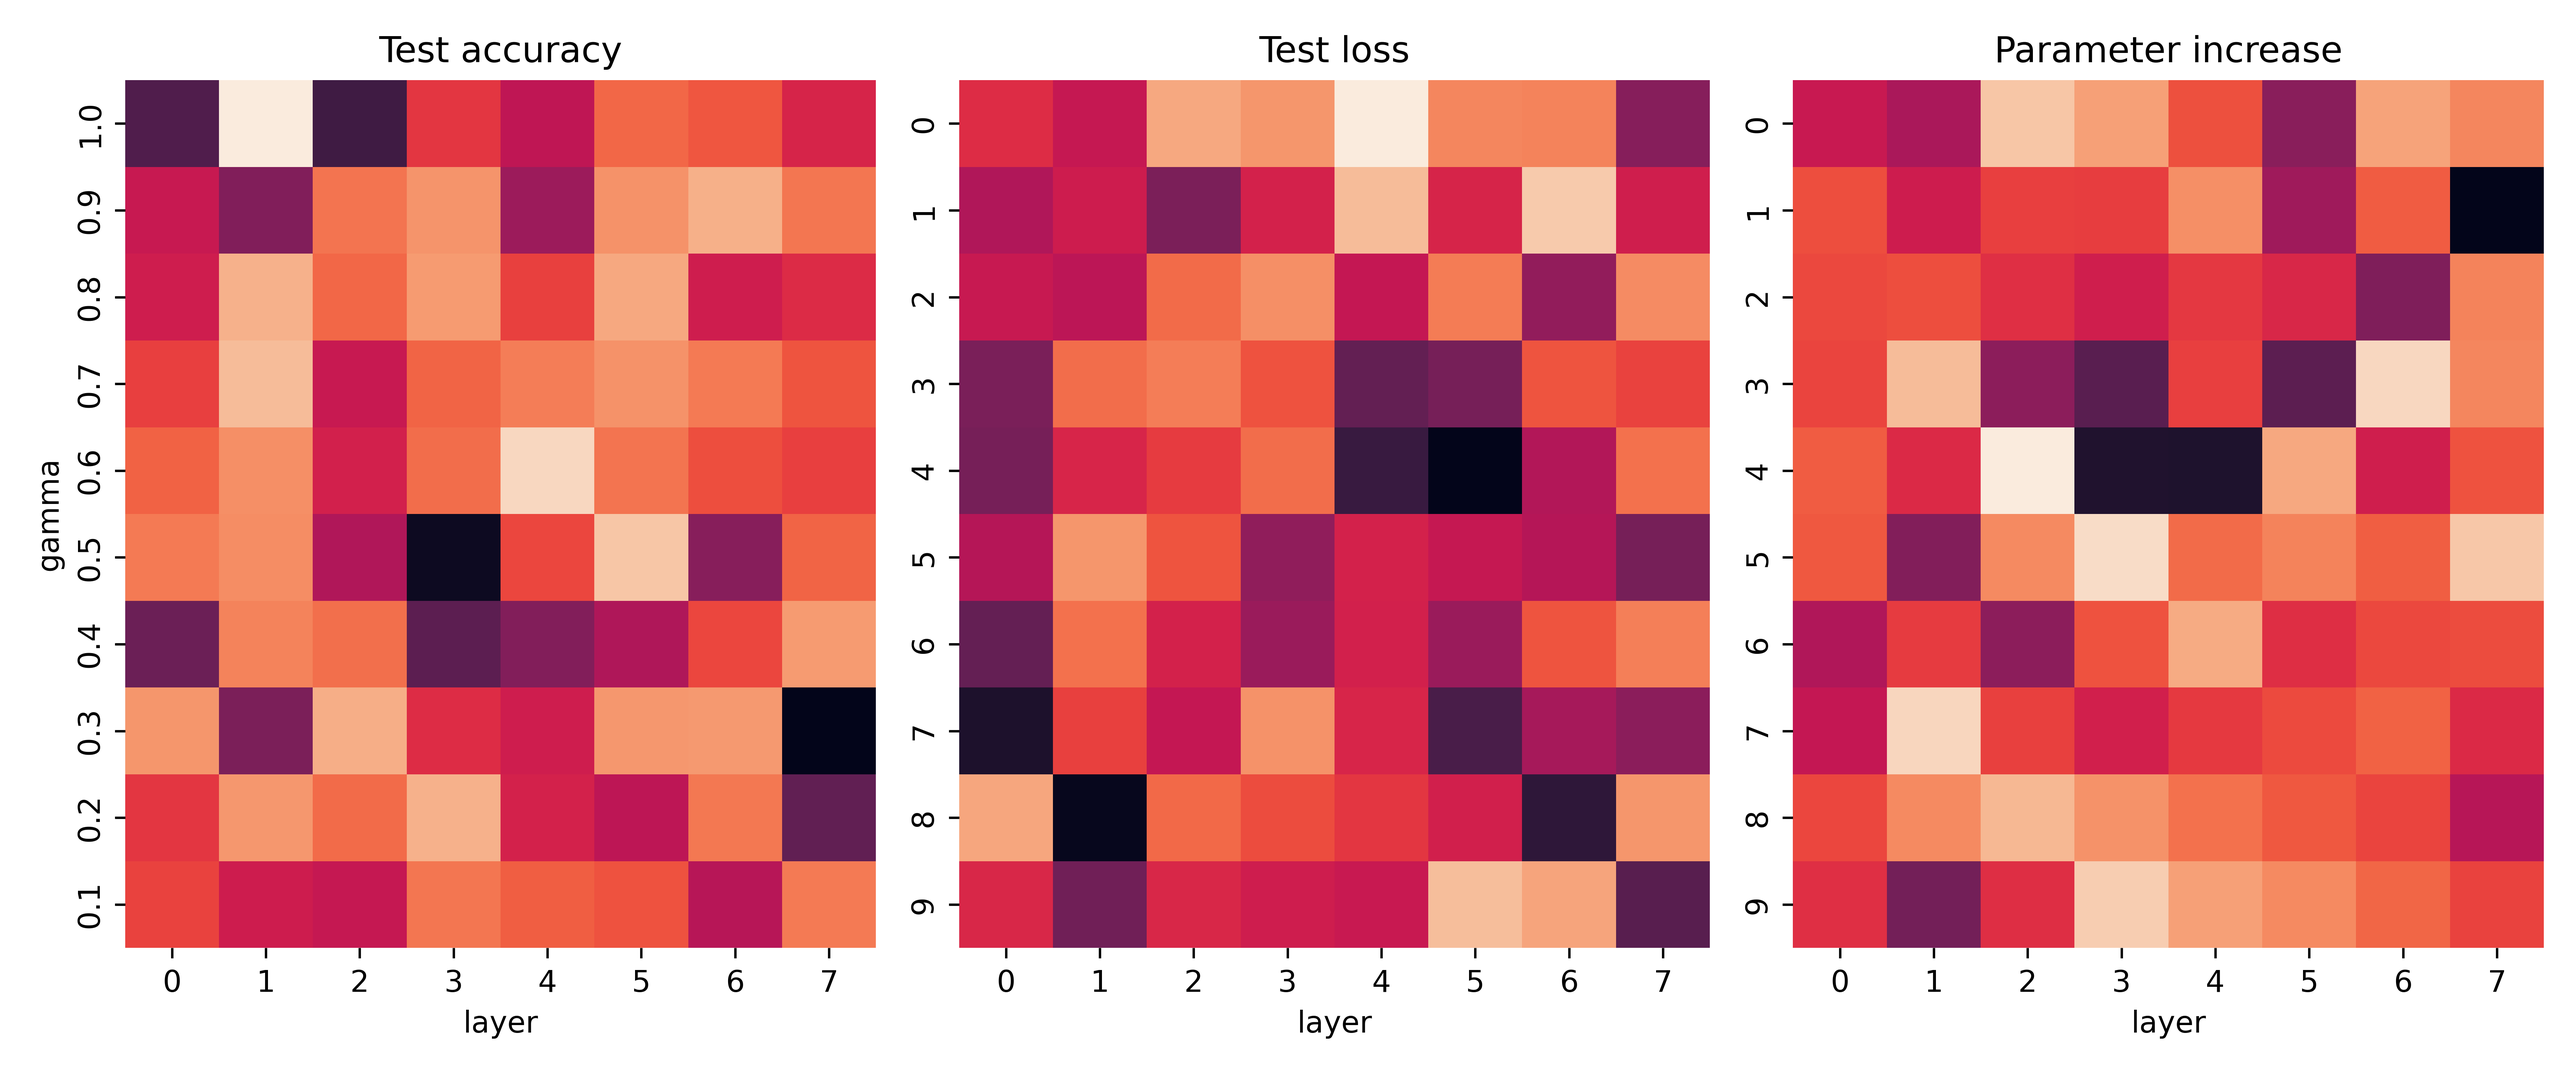
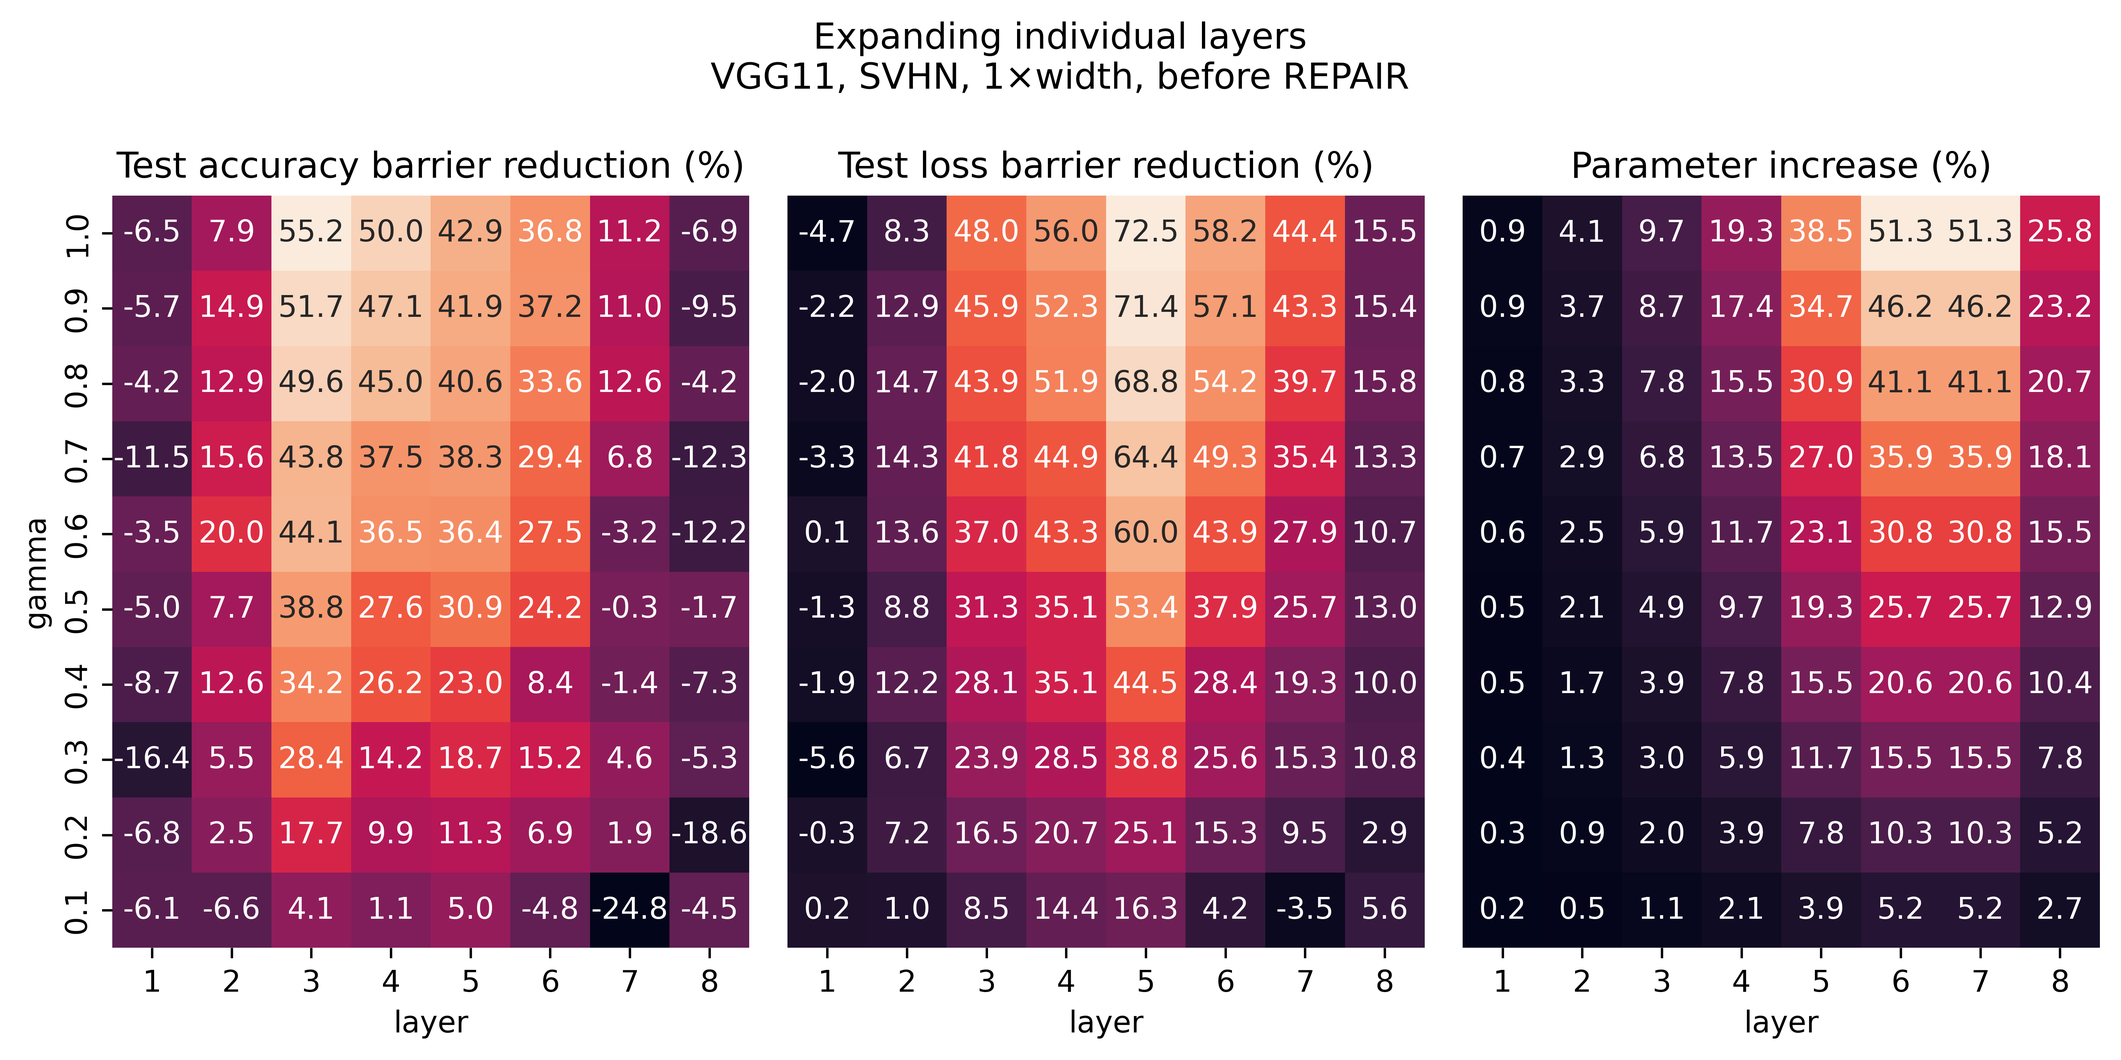
add experiment_k

diff --git a/src/evaluate.py b/src/evaluate.py
@@ -528,7 +528,7 @@ def experiment_b_ResNet18(model_name_a: str, model_name_b: str = None, threshold
 
         all_expansions = [1.1, 1.2, 1.3, 1.4, 1.5, 1.6, 1.7, 1.8, 1.9, 2.0]
 
-        metrics["default_num_params"] = torch.zeros(len(all_expansions), num_layers) * default_num_params
+        metrics["default_num_params"] = torch.ones(len(all_expansions), num_layers) * default_num_params
 
         metrics["only_expand_layer_i_train_accs"] = torch.zeros(len(all_expansions), num_layers)
         metrics["only_expand_layer_i_train_losses"] = torch.zeros(len(all_expansions), num_layers)
@@ -955,3 +955,135 @@ def experiment_r(model_name_a: str, model_name_b: str = None, interpolation_step
             metrics = load_file(filepath)  # necessary because of a safetensors bug
 
     return metrics
+
+
+def experiment_k(model_name_a: str, model_name_b: str = None, interpolation_steps=21):
+    """
+    Ensembles parts of the model on an order determined by experiment b
+    """
+    if model_name_b is None:
+        model_name_b = f"{model_name_a}-b"
+        model_name_a = f"{model_name_a}-a"
+
+    dataset_a, model_type_a, size_a, batch_norm_a, width_a, variant_a = parse_model_name(model_name_a)
+    dataset_b, model_type_b, size_b, batch_norm_b, width_b, variant_b = parse_model_name(model_name_b)
+
+    assert model_type_a == model_type_b
+    assert size_a == size_b
+    assert batch_norm_a == batch_norm_b
+    assert width_a == width_b  # not strictly necessary, but always the case in our experiments
+
+    evaluations_dir = get_evaluations_dir(subdir="smart_order")
+    filepath = os.path.join(evaluations_dir, f"smart_order-{model_name_a}{variant_b}.safetensors")
+
+    if os.path.exists(filepath):
+        metrics = load_file(filepath)
+        print(f"📤 Loaded saved metrics for {model_name_a}{variant_b} from .safetensors")
+    else:
+        metrics = {"alphas": torch.linspace(0.0, 1.0, interpolation_steps)}
+
+    train_aug_loader, train_noaug_loader, test_loader = get_loaders(dataset_a)
+
+    order = get_order(dataset_a, model_type_a, size_a, width_a, f"{variant_a}{variant_b}")
+
+    indices = {
+        0: [1],
+        1: [3],
+        2: [5],
+        3: [7],
+        4: [9],
+        5: [11],
+        6: [13],
+        7: [15],
+        8: [0, 2, 4],
+        9: [6, 8],
+        10: [10, 12],
+        11: [14, 16],
+    }
+
+    model_a = load_model(model_name_a).cuda()
+    num_params_default = get_num_params(model_a)
+    width_expansion = torch.ones(model_a.num_layers)
+    for k, idxs in enumerate(order):
+        if f"smart_order_merging_REPAIR_{k:g}_test_accs" not in metrics.keys():
+            print(f"Collecting smart_order metrics ({k:g}) ...")
+            model_a = load_model(model_name_a).cuda()
+            model_b = load_model(model_name_b).cuda()
+
+            if model_type_a == "ResNet":
+                idxs = indices[idxs]
+            else:
+                idxs = [idxs]
+
+            for idx in idxs:
+                width_expansion[idx] = 2
+
+            model_a = expand_model(model_a, width_expansion).cuda()
+            model_b = expand_model(model_b, width_expansion).cuda()
+            model_b_perm = permute_model(reference_model=model_a, model=model_b, loader=train_aug_loader)
+            (
+                metrics[f"smart_order_merging_{k:g}_train_accs"],
+                metrics[f"smart_order_merging_{k:g}_train_losses"],
+            ) = evaluate_two_models_merging(model_a, model_b_perm, train_noaug_loader, interpolation_steps)
+            (
+                metrics[f"smart_order_merging_{k:g}_test_accs"],
+                metrics[f"smart_order_merging_{k:g}_test_losses"],
+            ) = evaluate_two_models_merging(model_a, model_b_perm, test_loader, interpolation_steps)
+            print(f"Midpoint test acc: {metrics[f'smart_order_merging_{k:g}_test_accs'][10]}")
+
+            print(f"Collecting smart_order merging + REPAIR metrics ({k:g}) ...")
+            (
+                metrics[f"smart_order_merging_REPAIR_{k:g}_train_accs"],
+                metrics[f"smart_order_merging_REPAIR_{k:g}_train_losses"],
+            ) = evaluate_two_models_merging_REPAIR(
+                model_a, model_b_perm, train_noaug_loader, train_aug_loader, interpolation_steps
+            )
+            (
+                metrics[f"smart_order_merging_REPAIR_{k:g}_test_accs"],
+                metrics[f"smart_order_merging_REPAIR_{k:g}_test_losses"],
+            ) = evaluate_two_models_merging_REPAIR(
+                model_a, model_b_perm, test_loader, train_aug_loader, interpolation_steps
+            )
+            print(f"Midpoint test acc: {metrics[f'smart_order_merging_REPAIR_{k:g}_test_accs'][10]}")
+
+            num_params = get_num_params(interpolate_models(model_a, model_b_perm), ignore_zeros=True)
+            metrics[f"smart_order_merging_{k:g}_param_increase"] = torch.Tensor([num_params / num_params_default])
+
+            save_evaluation_checkpoint(metrics, filepath)
+            metrics = load_file(filepath)  # necessary because of a safetensors bug
+
+    return metrics
+
+
+def get_order(dataset, architecture, size, width, variants):
+    """
+    Fetches the order of expansion based on experiment b results
+    """
+
+    metrics = load_file(
+        os.path.join(
+            get_evaluations_dir("experiment_b"),
+            f"/experiment-b-{dataset}-{architecture}{size}-bn-{width}x-{variants}.safetensors",
+        )
+    )
+    metrics_default = load_file(
+        os.path.join(get_evaluations_dir("two_models"), f"{dataset}-{architecture}{size}-bn-{width}x-ab.safetensors")
+    )
+
+    accs = torch.flip(metrics[f"only_expand_layer_i{'_REPAIR' if repair else ''}_test_accs"], dims=[0])[:, :12]
+    # losses = torch.flip(metrics[f"only_expand_layer_i{'_REPAIR' if repair else ''}_test_losses"], dims=[0])[:, :12]
+    params = (torch.flip(metrics["only_expand_layer_i_num_params"], dims=[0]) / metrics["default_num_params"])[
+        :, :12
+    ] - 1
+
+    acc_endpoints = metrics_default["ensembling_test_accs"][[0, -1]].mean()
+    acc_merging = metrics_default[f"merging{'_REPAIR' if repair else ''}_test_accs"][10]
+    acc_barrier_reduction = (accs - acc_merging) / (acc_endpoints - acc_merging)
+
+    # loss_endpoints = metrics_default["ensembling_test_losses"][[0, -1]].mean()
+    # loss_merging = metrics_default[f"merging{'_REPAIR' if repair else ''}_test_losses"][10]
+    # loss_barrier_reduction = (losses - loss_merging) / (loss_endpoints - loss_merging)
+
+    benefits = (acc_barrier_reduction / params)[0]
+    _, order = torch.sort(benefits, descending=True)
+    return order

diff --git a/src/plot_scripts/plot_single_layer_heatmap.py b/src/plot_scripts/plot_single_layer_heatmap.py
@@ -2,6 +2,8 @@ import matplotlib.pyplot as plt
 import seaborn as sns
 import torch
 from pathlib import Path
+from safetensors.torch import load_file
+import matplotlib.transforms as transforms
 
 # from src.utils import get_plots_dir
 import os
@@ -9,30 +11,48 @@ import os
 
 dataset = "SVHN"
 architecture = "VGG"
-size = 11
+size = 11 if architecture == "VGG" else 18
 bn = True
 width = 1
+repair = False
 
-metrics = ["acc", "loss"]
+metrics = load_file(
+    f"/home/korbinian/Documents/partial-model-merging/evaluations/experiment_b/experiment-b-{dataset}-{architecture}{size}-bn-{width}x-ab.safetensors"
+)
+metrics_default = load_file(
+    f"/home/korbinian/Documents/partial-model-merging/evaluations/two_models/{dataset}-{architecture}{size}-bn-{width}x-ab.safetensors"
+)
 
+accs = torch.flip(metrics[f"only_expand_layer_i{'_REPAIR' if repair else ''}_test_accs"], dims=[0])[:, :12]
+losses = torch.flip(metrics[f"only_expand_layer_i{'_REPAIR' if repair else ''}_test_losses"], dims=[0])[:, :12]
+params = (torch.flip(metrics["only_expand_layer_i_num_params"], dims=[0]) / metrics["default_num_params"])[:, :12] - 1
 
-tensor1 = torch.randn(10, 8) * 10
-tensor2 = torch.randn(10, 8) * 50
-tensor3 = torch.randn(10, 8) * 100
+acc_endpoints = metrics_default["ensembling_test_accs"][[0, -1]].mean()
+acc_merging = metrics_default[f"merging{'_REPAIR' if repair else ''}_test_accs"][10]
+acc_barrier_reduction = (accs - acc_merging) / (acc_endpoints - acc_merging)
+
+loss_endpoints = metrics_default["ensembling_test_losses"][[0, -1]].mean()
+loss_merging = metrics_default[f"merging{'_REPAIR' if repair else ''}_test_losses"][10]
+loss_barrier_reduction = (losses - loss_merging) / (loss_endpoints - loss_merging)
 
 # Creating subplots
-fig, axes = plt.subplots(1, 3, figsize=(12, 5))
+if architecture == "ResNet":
+    fig, axes = plt.subplots(1, 3, figsize=(13.2, 5.3))
+else:
+    fig, axes = plt.subplots(1, 3, figsize=(10, 5))
 
-plt.title(f"Expanding individual layers\n{architecture}{size}, {dataset}, {width}×width")
+plt.suptitle(
+    f"Expanding individual layers\n{architecture}{size}, {dataset}, {width}×width, {'after' if repair else 'before'} REPAIR"
+)
 
-axes[0].set_title("Test accuracy")
-axes[1].set_title("Test loss")
-axes[2].set_title("Parameter increase")
+axes[0].set_title("Test accuracy barrier reduction (%)")
+axes[1].set_title("Test loss barrier reduction (%)")
+axes[2].set_title("Parameter increase (%)")
 
 # Plotting the heatmaps
-sns.heatmap(tensor1, ax=axes[0], cbar=False)
-sns.heatmap(tensor2, ax=axes[1], cbar=False)
-sns.heatmap(tensor3, ax=axes[2], cbar=False)
+sns.heatmap(acc_barrier_reduction * 100, ax=axes[0], cbar=False, annot=True, fmt=".1f")
+sns.heatmap(loss_barrier_reduction * 100, ax=axes[1], cbar=False, annot=True, fmt=".1f")
+sns.heatmap(params * 100, ax=axes[2], cbar=False, annot=True, fmt=".1f")
 
 # Setting up the axes
 # Show y-axis only on the left subplot
@@ -40,10 +60,18 @@ axes[0].set_ylabel("gamma")
 axes[0].set_yticklabels(reversed([f"{x:.1f}" for x in torch.linspace(0.1, 1, 10)]))
 for ax in axes[1:]:
     ax.set_ylabel("")
+    ax.set_yticks([])
+    ax.set_yticklabels([])
 
 # Show x-axis on all subplots
 for ax in axes:
     ax.set_xlabel("layer")
+    if architecture == "VGG":
+        ax.set_xticklabels(range(1, len(accs[0]) + 1))
+        plt.subplots_adjust(wspace=0.1)
+    else:
+        ax.set_xticklabels(list(range(2, 17, 2)) + ["{1,3,5}", "{7,9}", "{11,13}", "{15,17}"], rotation=-45, ha="left")
+        plt.subplots_adjust(wspace=-1)
 
 plt.tight_layout()
 plots_dir = "/home/korbinian/Documents/Masterarbeit/partial-model-merging/plots/plot_single_layer_heatmap/"
@@ -51,9 +79,10 @@ plots_dir = "/home/korbinian/Documents/Masterarbeit/partial-model-merging/plots/
 plt.savefig(
     os.path.join(
         plots_dir,
-        f"per_layer_{dataset}_{architecture}.png",
+        f"per_layer_{dataset}_{architecture}{'_REPAIR' if repair else ''}.png",
     ),
     dpi=600,
+    bbox_inches="tight",
 )
 plt.close()
 print(f"📊 per layer {dataset} {architecture} plot saved")
